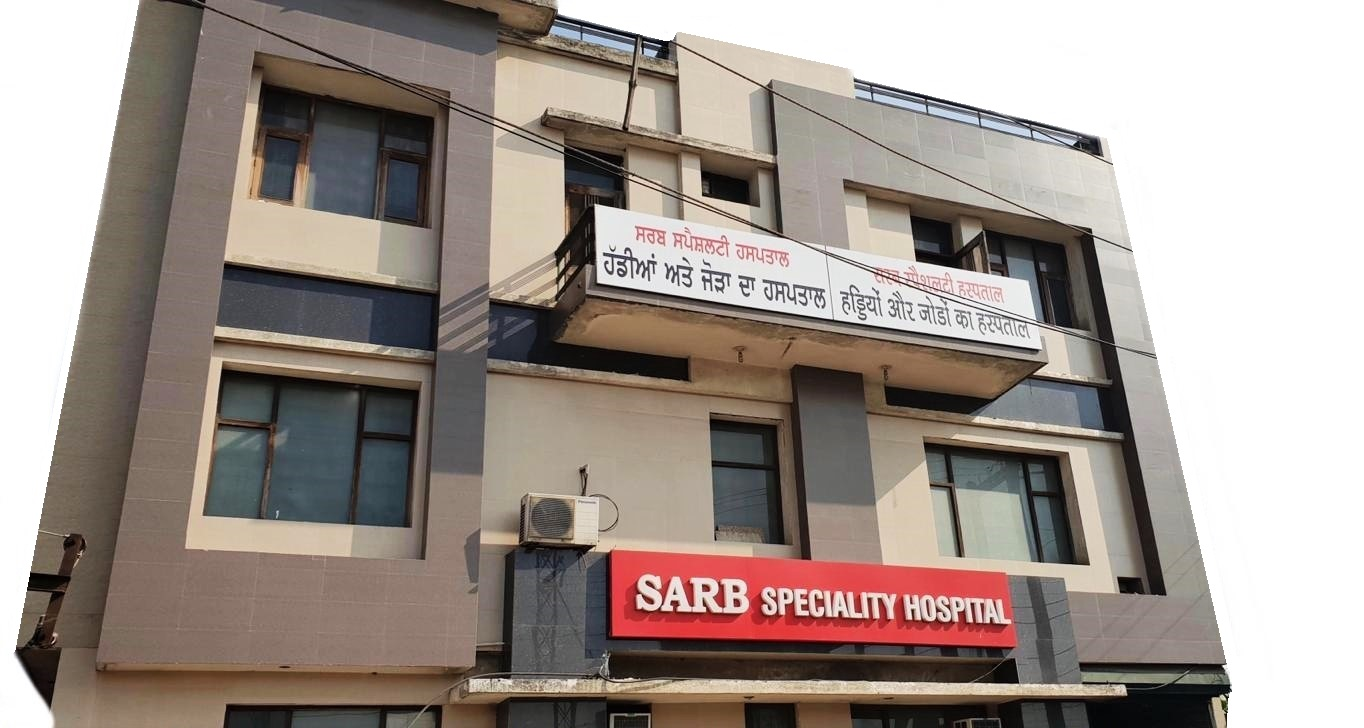
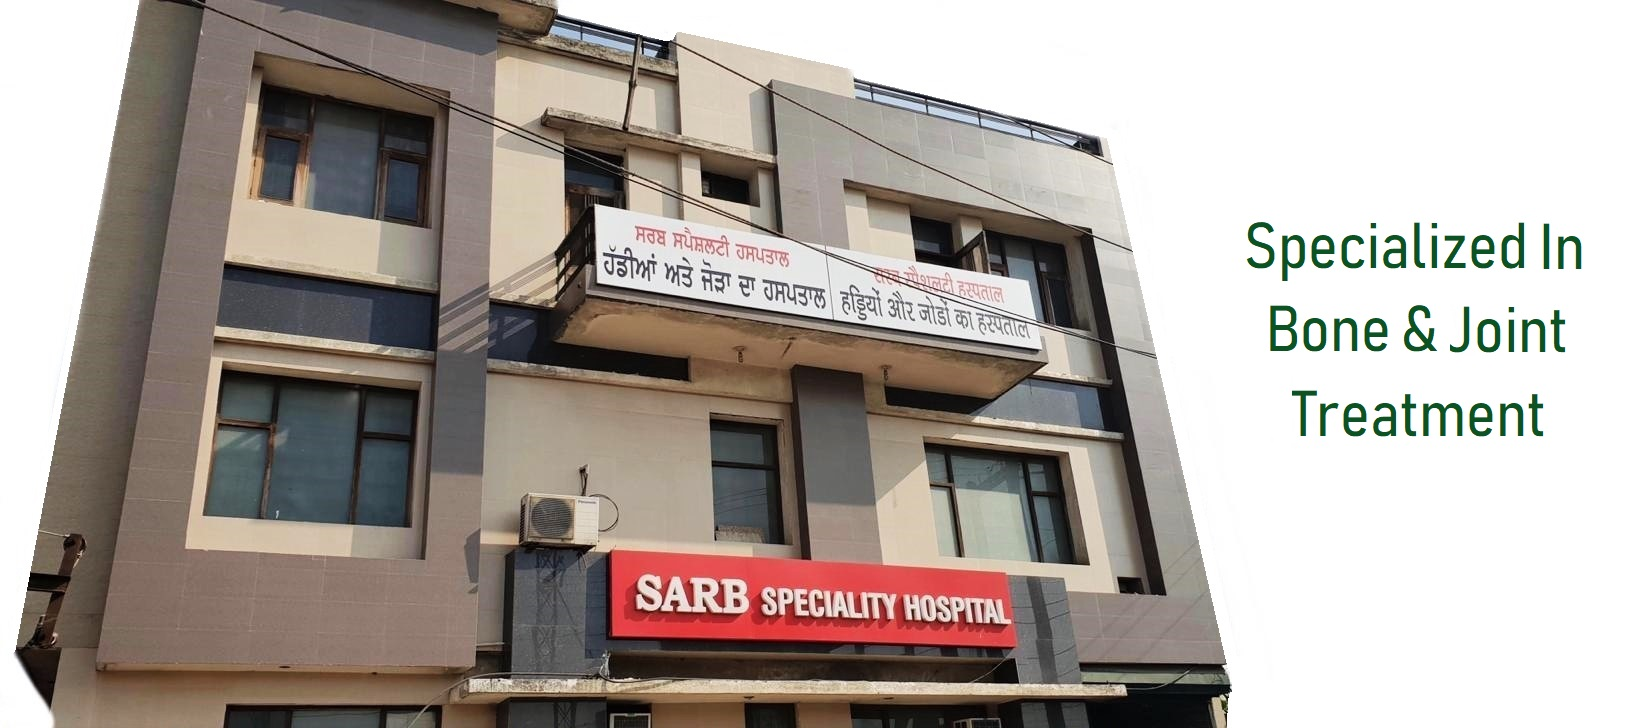
img

diff --git a/index.html b/index.html
@@ -87,6 +87,9 @@
 					<div class="row no-gutters">
 							<img src="building.jpg" alt="">
 					</div>
+					<div class="row no-gutters">
+							<img src="bodyim.png" alt="">
+					</div>
 				</div>
 			</div>
 		</div>
